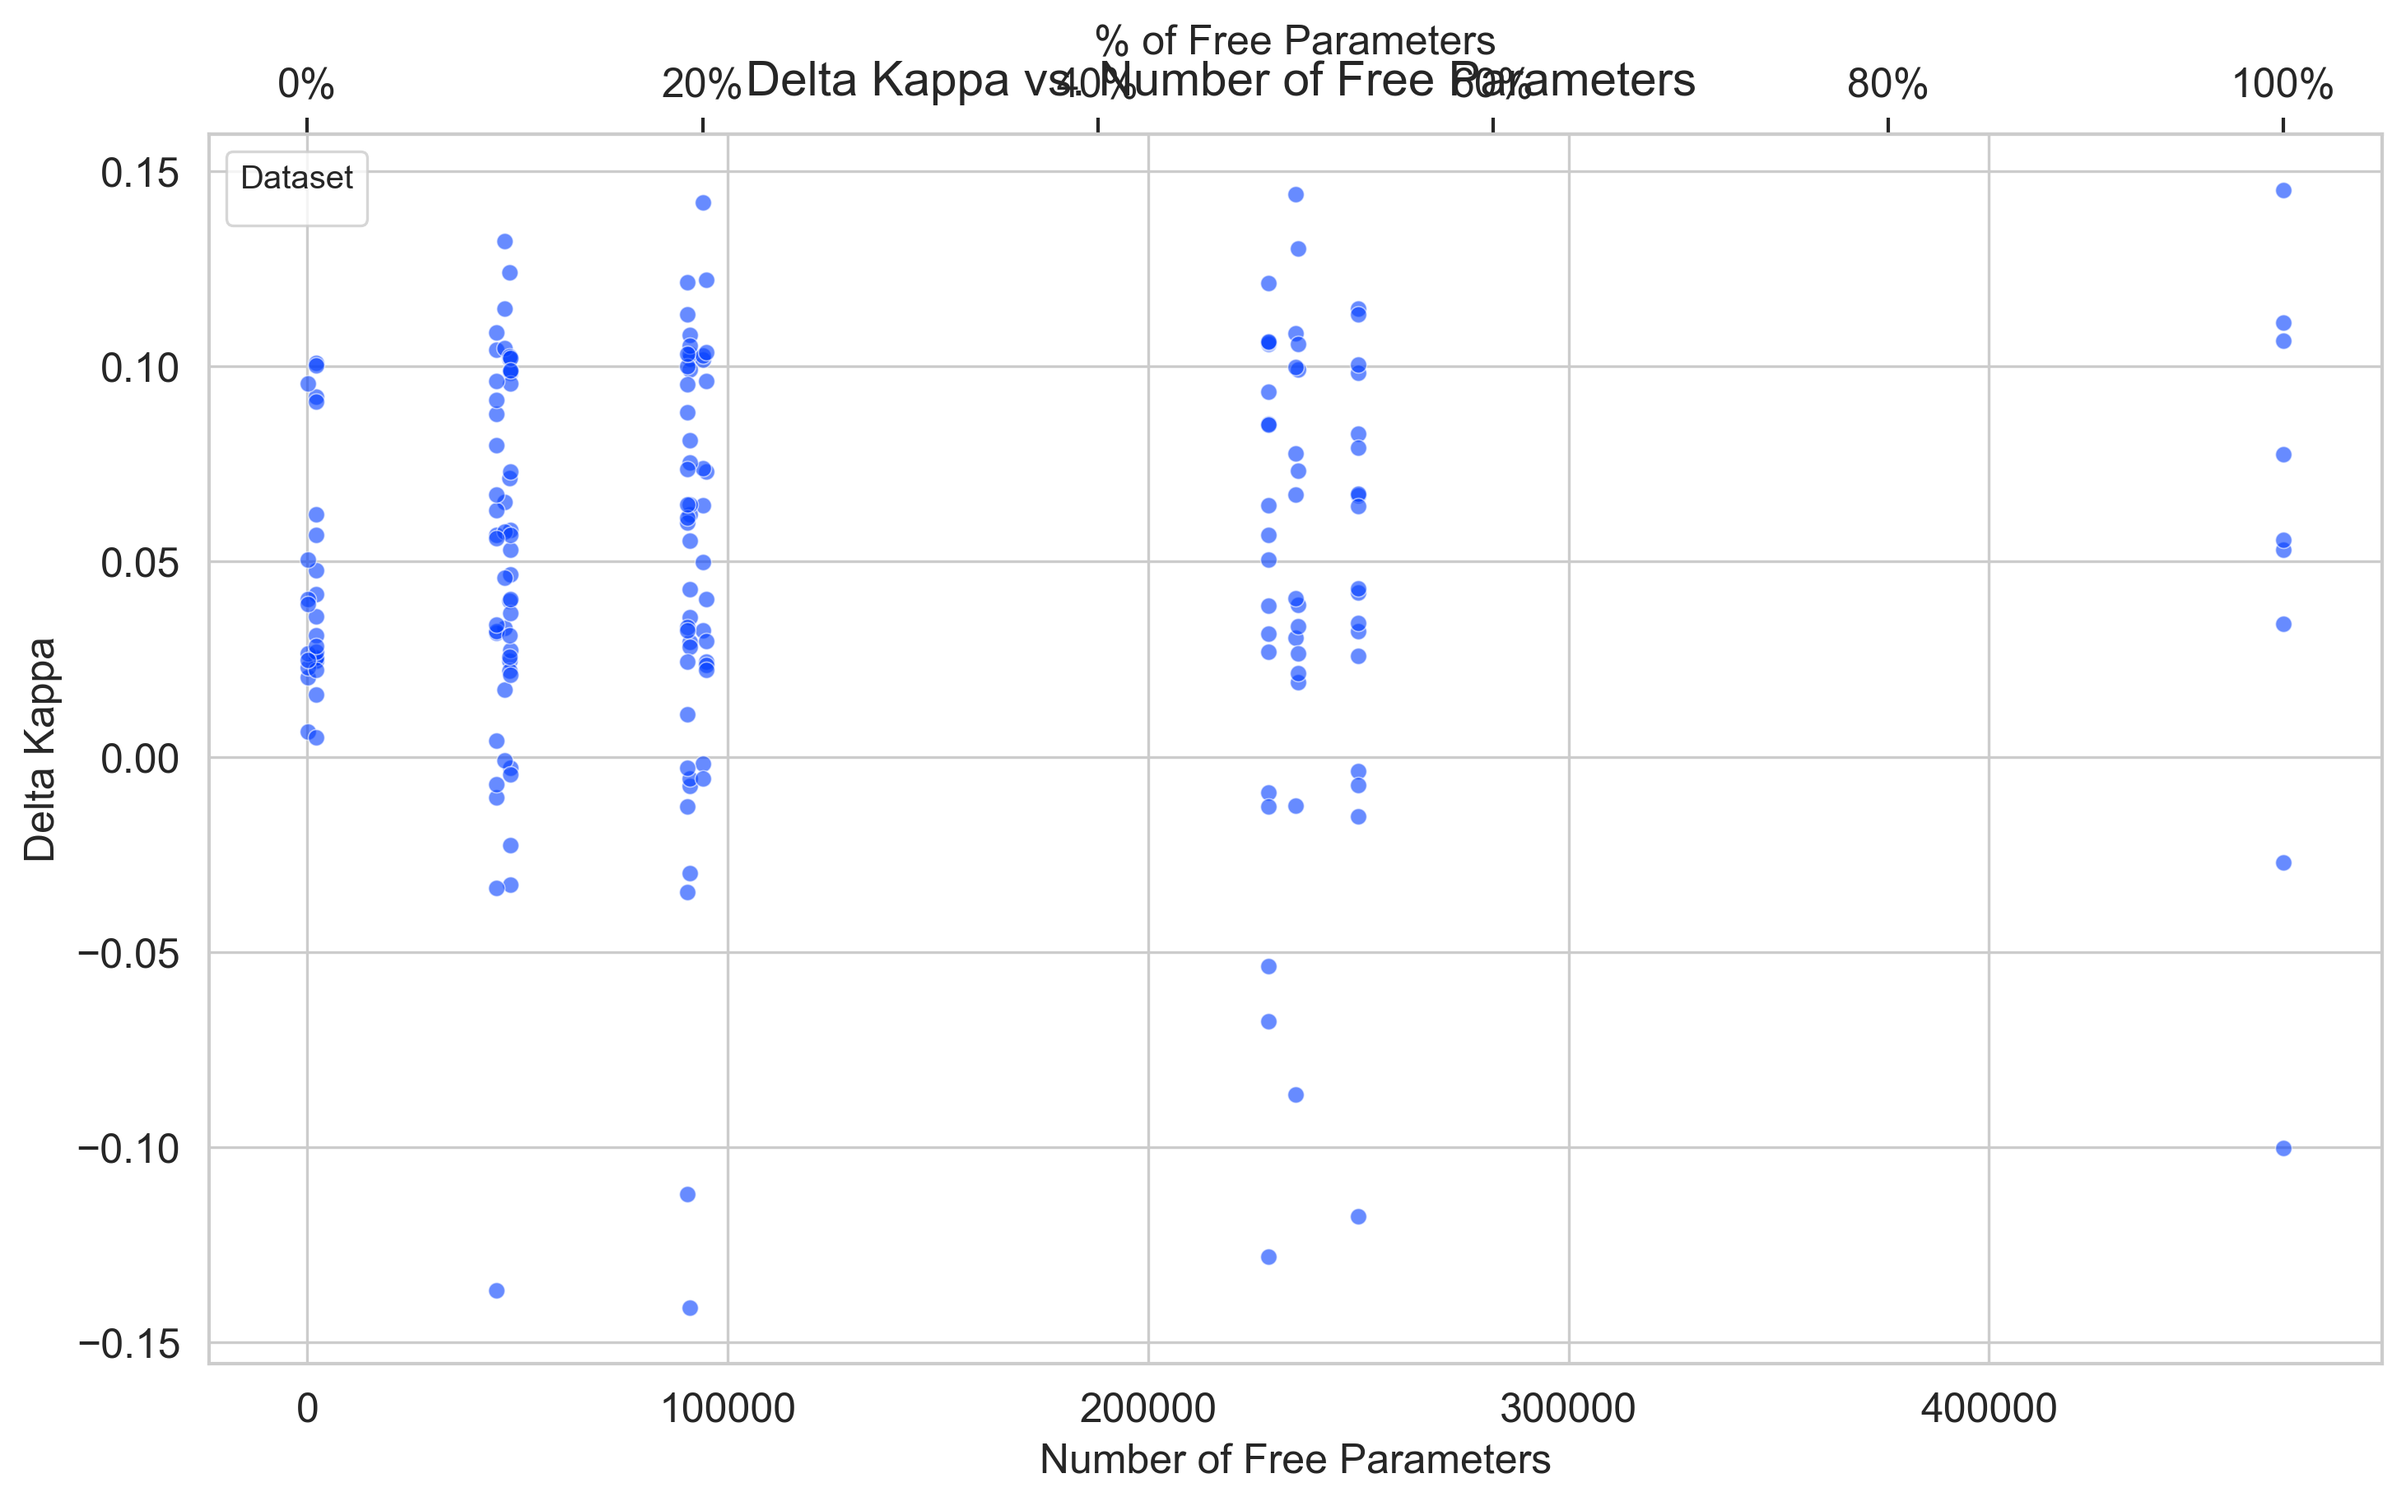
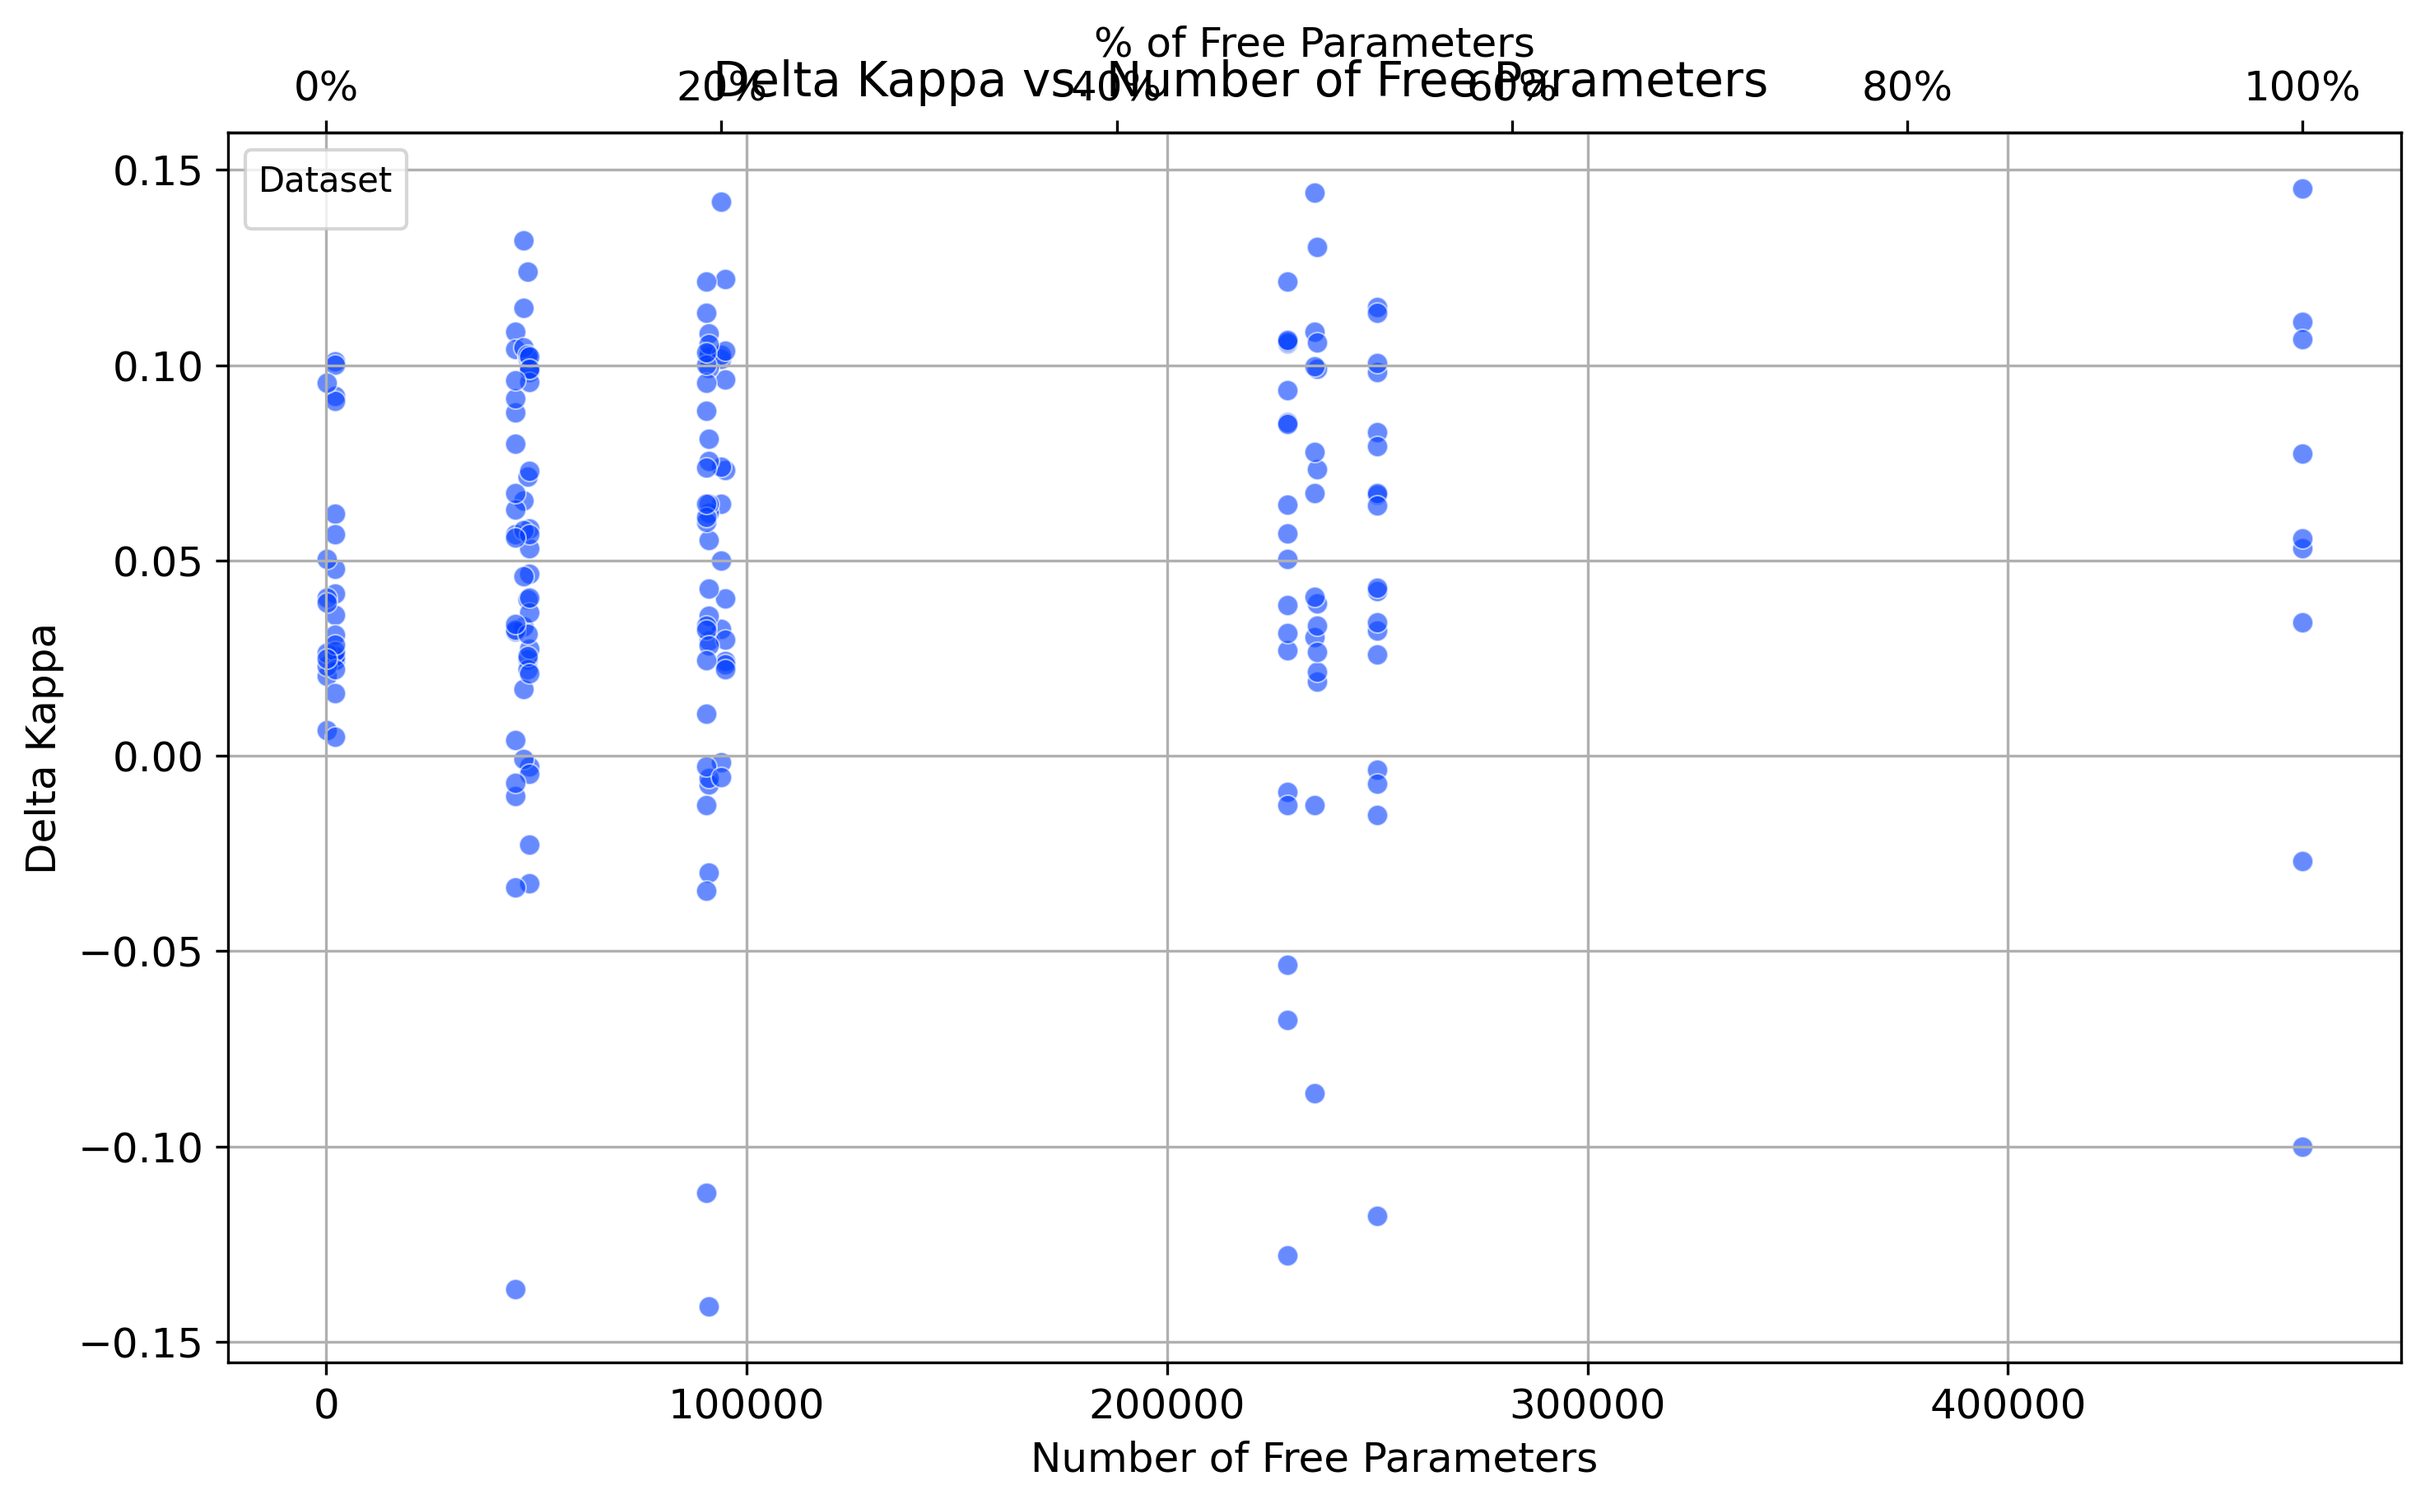
changed coloring

diff --git a/src/plot/delta_kappa_vs_parameters.py b/src/plot/delta_kappa_vs_parameters.py
@@ -7,7 +7,7 @@ from matplotlib.axes import Axes
 from matplotlib.ticker import FuncFormatter, LogLocator, ScalarFormatter
 from scipy.stats import linregress
 
-from src.plot.colors import BASE_COLOR, HIGHLIGHT_COLOR
+from src.plot.colors import HIGHLIGHT_COLOR
 from src.utils.figures import adjust_axis_font, save_figure
 from src.utils.neptune_api.data_loader import load_data
 from src.utils.neptune_api.method_data import (
@@ -164,7 +164,7 @@ def _plot_delta_kappe_vs_parameters_separate_datasets(
         col="dataset",
         sharex=True,
         sharey=True,
-        height=4,
+        height=3.5,
         aspect=1.5,
         col_wrap=col_wrap,
     )
@@ -178,16 +178,21 @@ def _plot_delta_kappe_vs_parameters_separate_datasets(
     )
 
     g.set_titles(template="{col_name}", size=13)
+    left_bbox = 0.065
+    right_bbox = 0.97
     g.figure.subplots_adjust(
-        top=0.89,
-        bottom=0.055,
-        left=0.055,
-        right=0.97,
-        wspace=0.09,
-        hspace=0.33,
+        top=0.87,
+        bottom=0.075,
+        left=left_bbox,
+        right=right_bbox,
+        wspace=0.08,
+        hspace=0.37,
     )
     g.figure.suptitle(
-        "Delta Kappa vs. Number of Free Parameters by Dataset", fontsize=15
+        "Delta Kappa vs. Number of Free Parameters by Dataset",
+        fontsize=15,
+        x=(right_bbox + left_bbox) / 2,
+        ha="center",
     )
 
     for ax in g.axes.flatten():
@@ -196,9 +201,9 @@ def _plot_delta_kappe_vs_parameters_separate_datasets(
                 # line.set_linewidth(1.5)  # or whatever width you prefer
                 line.set_color("black")
 
-    for ax, (_, df) in zip(g.axes.flatten(), data.group_by("dataset")):
+    for i, (ax, (_, df)) in enumerate(zip(g.axes.flatten(), data.group_by("dataset"))):
         assert isinstance(ax, Axes)
-        color = BASE_COLOR[df.item(0, "dataset").lower()]
+        color = HIGHLIGHT_COLOR[df.item(0, "dataset").lower()]
         x = df.get_column("free_parameters").to_numpy()
         y = df.get_column("delta_kappa").to_numpy()
         mask = np.isfinite(x) & np.isfinite(y) & (x > 0)
@@ -209,8 +214,9 @@ def _plot_delta_kappe_vs_parameters_separate_datasets(
         y_fit = intercept + slope * (x_fit)
         add = "-" if intercept < 0 else "+"  # type: ignore
         label = rf"$y = {slope * x.max():.3f}x {add} {abs(intercept):.3f}$"
-        ax.plot(x_fit, y_fit, color=color, label=label, linewidth=2)
-        ax.legend(loc="best", fontsize=9, frameon=True)
+        ax.plot(x_fit, y_fit, color=(*color, 0.6), label=label, linewidth=2)
+        location = "upper right" if i in [4] else "lower right"
+        ax.legend(loc=location, fontsize=11, frameon=True)
         pass
 
     save_figure(

diff --git a/src/plot/val_kappa.py b/src/plot/val_kappa.py
@@ -4,6 +4,7 @@ from matplotlib import pyplot as plt
 from matplotlib.axes import Axes
 
 from src.plot.colors import HIGHLIGHT_COLOR
+from src.plot.methods import sort_dataframe_by_method_order
 from src.utils.figures import adjust_axis_font, save_figure
 from src.utils.neptune_api.data_loader import load_data
 from src.utils.neptune_api.method_data import (
@@ -32,7 +33,7 @@ def _get_validation_kappa_data() -> pl.DataFrame:
 
     df = pl.concat(dfs, how="vertical")
 
-    return df
+    return sort_dataframe_by_method_order(df)
 
 
 def _plot_validation_kappa(data: pl.DataFrame, cols: int, show: bool) -> None:
